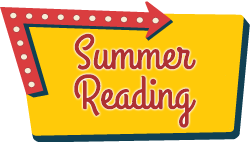
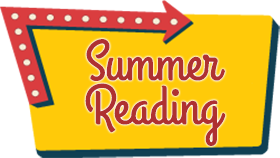
finishing signs

diff --git a/new.html b/new.html
@@ -113,7 +113,7 @@ e.async=true;var t=document.getElementsByTagName("script")[0];t.parentNode.inser
 .sign-two {
 	background: transparent url("pole.jpg") bottom center no-repeat;
 	height: 650px;
-	padding: 60px 155px 0 135px;
+	padding: 45px 155px 0 135px;
 	margin-top: 10px;
 }
 .sign-three {
@@ -234,7 +234,7 @@ background-position: 2700px 0;
 }
 }
 .mobile-sky-row {
-	background: #386799 url("mobile-landscape.jpg") bottom center repeat-x;
+	background: #4070a0 url("mobile-landscape.jpg") bottom center repeat-x;
 }
 .mobile-sign-wrapper {
 	display: flex;
@@ -246,6 +246,9 @@ background-position: 2700px 0;
 }
 .mobile-sign-three {
 	margin-bottom: 250px;
+}
+.mobile-sign-two {
+	margin-bottom: 15px;
 }
 
 @media (min-width: 981px) {
@@ -262,7 +265,7 @@ background-position: 2700px 0;
 	margin: 15px;
 }
 .mobile-sign-wrapper {
-	margin-top: 60px;
+	margin-top: 15px;
 }
 }
 </style>
@@ -449,21 +452,21 @@ height="0" width="0" style="display:none;visibility:hidden"></iframe>
   <div class="row sky-row">
     <div class="sign-wrapper">
       <div class="sign-one">
-        <div class="vibrate"><a href="https://dcl.bibliocommons.com/list/share/692278051_dcladults/972311228"><img class="img-responsive" src="favorite-fathers.png" alt="Favorite Fictional Fathers"></a></div>
+        <div class="vibrate"><a href="https://dcl.bibliocommons.com/list/share/692278051_dcladults/972311228"><img class="img-responsive" src="favorite-fathers.gif" alt="Favorite Fictional Fathers"></a></div>
       </div>
       <div class="sign-two">
-        <div class="vibrate"><a href="/summer-reading/"><img class="img-responsive" src="summer-reading.png" alt="Summer Reading"></a></div>
+        <div class="vibrate"><a href="/summer-reading/"><img class="img-responsive" src="summer-reading.gif" alt="Summer Reading"></a></div>
       </div>
       <div class="sign-three">
-        <div class="vibrate"><a href="/camp-dcl/"><img class="img-responsive" src="kids-camps.png" alt="Camp DCL"></a></div>
+        <div class="vibrate"><a href="/camp-dcl/"><img class="img-responsive" src="kids-camps.gif" alt="Camp DCL"></a></div>
       </div>
     </div>
   </div>
   <div class="row mobile-sky-row">
     <div class="mobile-sign-wrapper">
-      <div class="mobile-sign-one vibrate"> <a href="https://dcl.bibliocommons.com/list/share/692278051_dcladults/972311228"><img class="img-responsive" src="favorite-fathers.png" alt="Favorite Fictional Fathers"></a> </div>
-      <div class="mobile-sign-two vibrate"> <a href="/summer-reading/"><img class="img-responsive" src="summer-reading.png" alt="Summer Reading"></a> </div>
-      <div class="mobile-sign-three vibrate"> <a href="/camp-dcl/"><img class="img-responsive" src="kids-camps.png" alt="Camp DCL"></a> </div>
+      <div class="mobile-sign-one vibrate"> <a href="https://dcl.bibliocommons.com/list/share/692278051_dcladults/972311228"><img class="img-responsive" src="favorite-fathers.gif" alt="Favorite Fictional Fathers"></a> </div>
+      <div class="mobile-sign-two vibrate"> <a href="/summer-reading/"><img class="img-responsive" src="summer-reading.gif" alt="Summer Reading"></a> </div>
+      <div class="mobile-sign-three vibrate"> <a href="/camp-dcl/"><img class="img-responsive" src="kids-camps.gif" alt="Camp DCL"></a> </div>
     </div>
   </div>
   <div class="row far-lane"></div>
